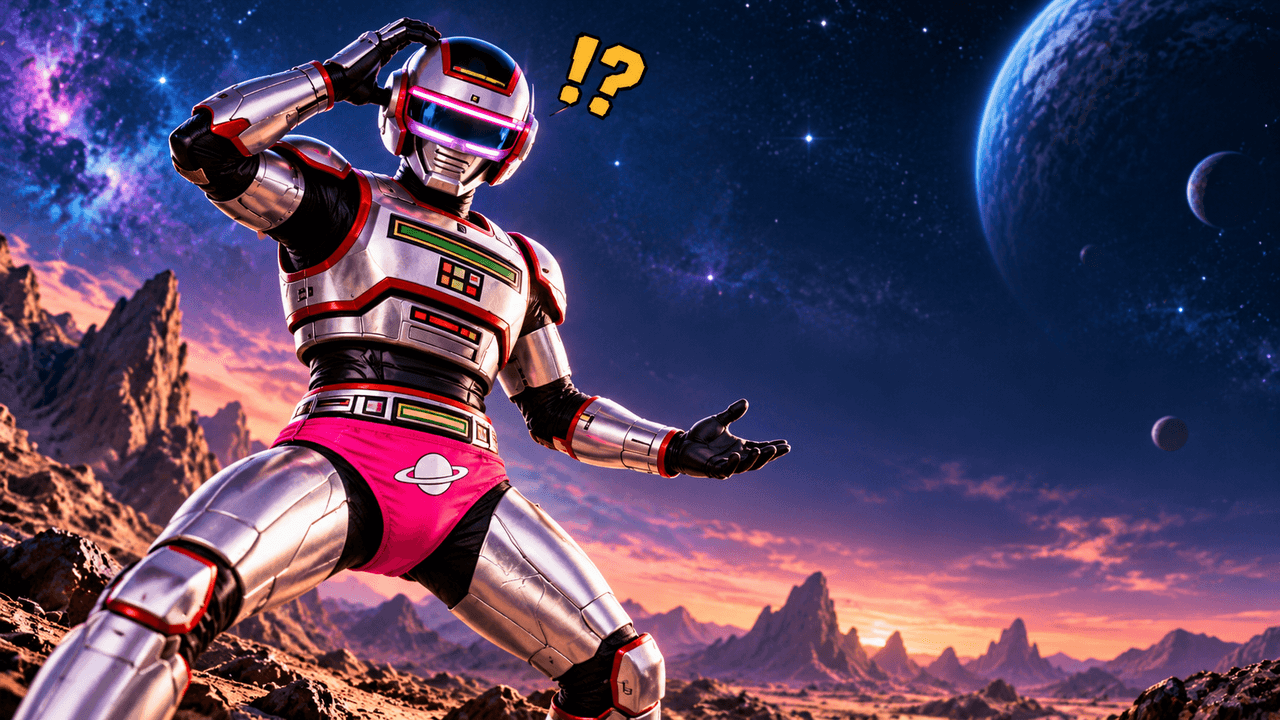
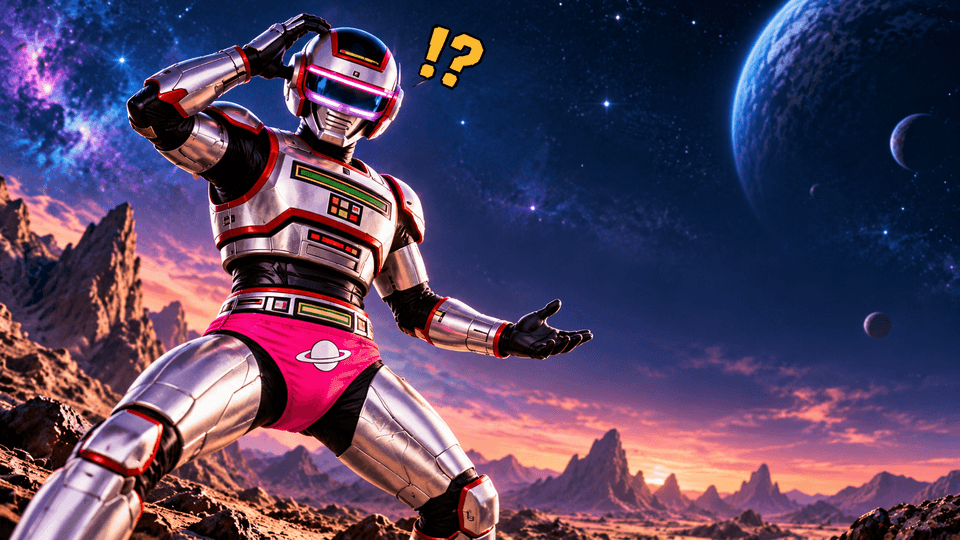
chore: update font licenses and optimize 404 image handling

diff --git a/templates/pages/not-found.php b/templates/pages/not-found.php
@@ -3,7 +3,7 @@
         <source media="(max-width: 47.99rem)" type="image/webp" srcset="<?= $this->asset('/assets/images/404-mobile-480.webp') ?> 480w, <?= $this->asset('/assets/images/404-mobile-800.webp') ?> 800w" sizes="calc(100vw - 40px)" width="800" height="800">
         <source media="(max-width: 47.99rem)" srcset="<?= $this->asset('/assets/images/404-mobile.jpg') ?>" width="800" height="800">
         <source type="image/webp" srcset="<?= $this->asset('/assets/images/404-800.webp') ?> 800w, <?= $this->asset('/assets/images/404-1280.webp') ?> 1280w" sizes="(min-width: 72rem) 600px, 50vw" width="1280" height="720">
-        <img class="not-found-image" src="<?= $this->asset('/assets/images/404.png') ?>" width="1280" height="720" alt="Jaspion de sunga rosa, com a mão no capacete, confuso em uma paisagem espacial.">
+        <img class="not-found-image" src="<?= $this->asset('/assets/images/404.png') ?>" width="960" height="540" alt="Jaspion de sunga rosa, com a mão no capacete, confuso em uma paisagem espacial.">
     </picture>
     <div class="not-found-content">
         <p class="eyebrow"><span class="accent-line" aria-hidden="true"></span> Erro 404</p>
